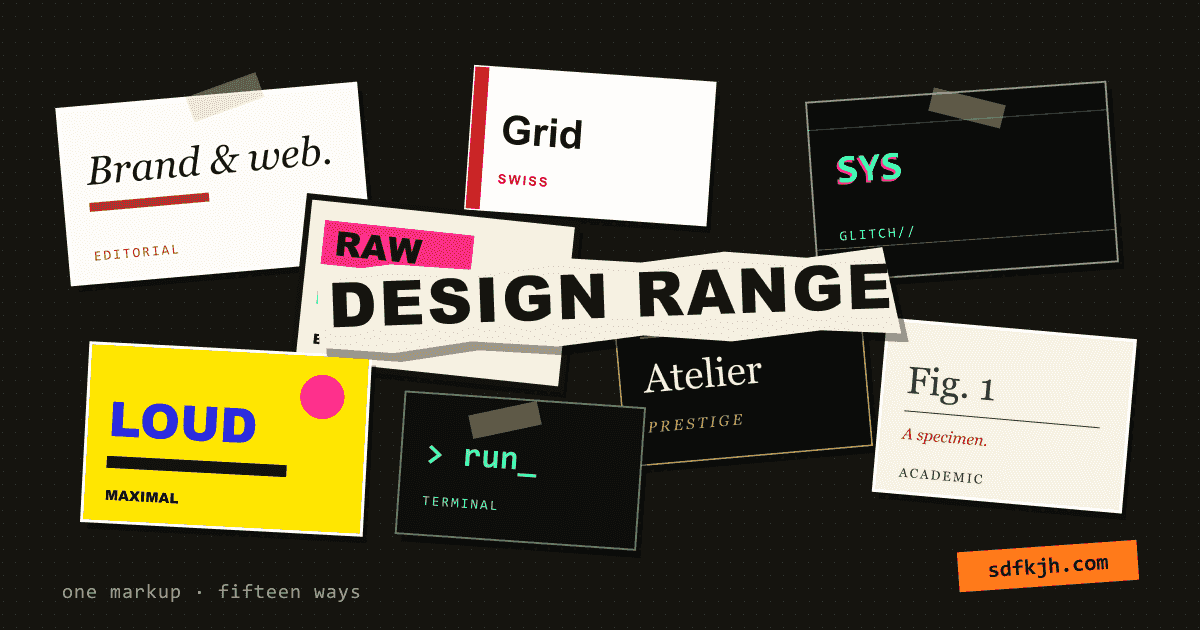
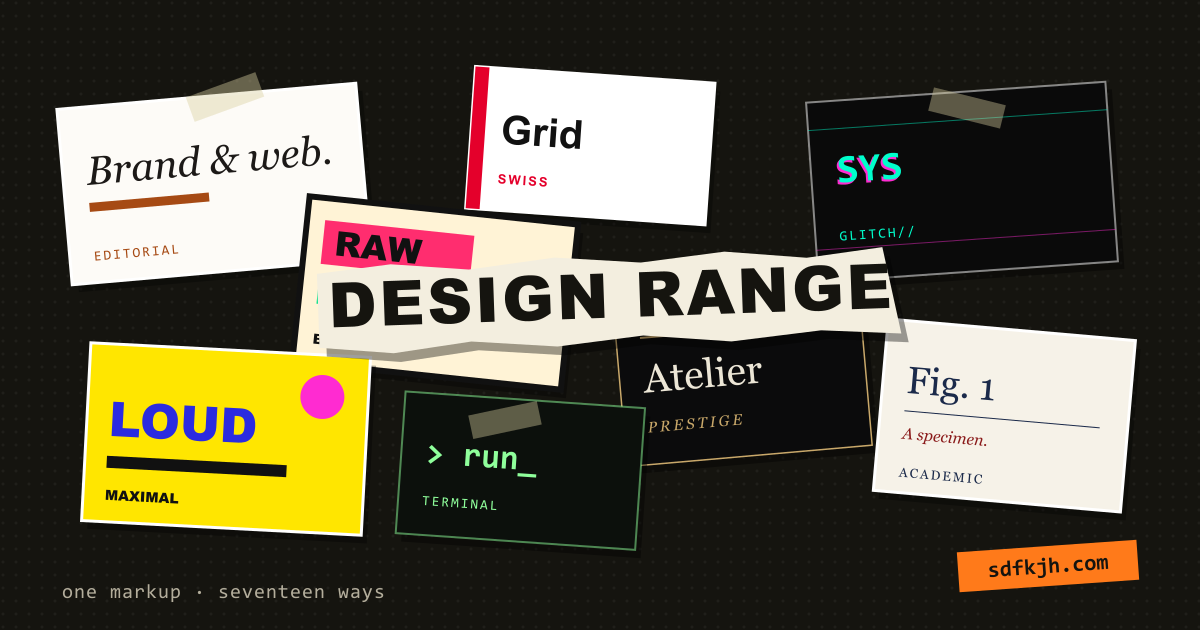
Sync range count to seventeen across homepage teaser, index.md twin, llms.txt, and the rebuilt og-range card (was stale at fifteen)

diff --git a/index.html b/index.html
@@ -1686,9 +1686,9 @@ Brand and web are two hands on one keyboard.
 
   <section class="range">
     <div class="wrap">
-      <h2 class="eyebrow">design range &middot; one page, fifteen ways</h2>
+      <h2 class="eyebrow">design range &middot; one page, seventeen ways</h2>
       <p class="range-h">This page tunes one design. <a href="/range">See the full range &rsaquo;</a></p>
-      <p class="range-p">Fifteen complete designs on a single markup. Switch the whole look live, then tune color, type, and layout in the browser.</p>
+      <p class="range-p">Seventeen complete designs on a single markup. Switch the whole look live, then tune color, type, and layout in the browser.</p>
     </div>
   </section>
 

diff --git a/index.md b/index.md
@@ -34,7 +34,7 @@ The same hand and stack, pointed at three other problems:
 
 ## Design range
 
-One markup, fifteen complete design systems. Switch the whole look live, then tune color, type, and layout in the browser: [sdfkjh.com/range](https://sdfkjh.com/range).
+One markup, seventeen complete design systems. Switch the whole look live, then tune color, type, and layout in the browser: [sdfkjh.com/range](https://sdfkjh.com/range).
 
 ## The console
 
